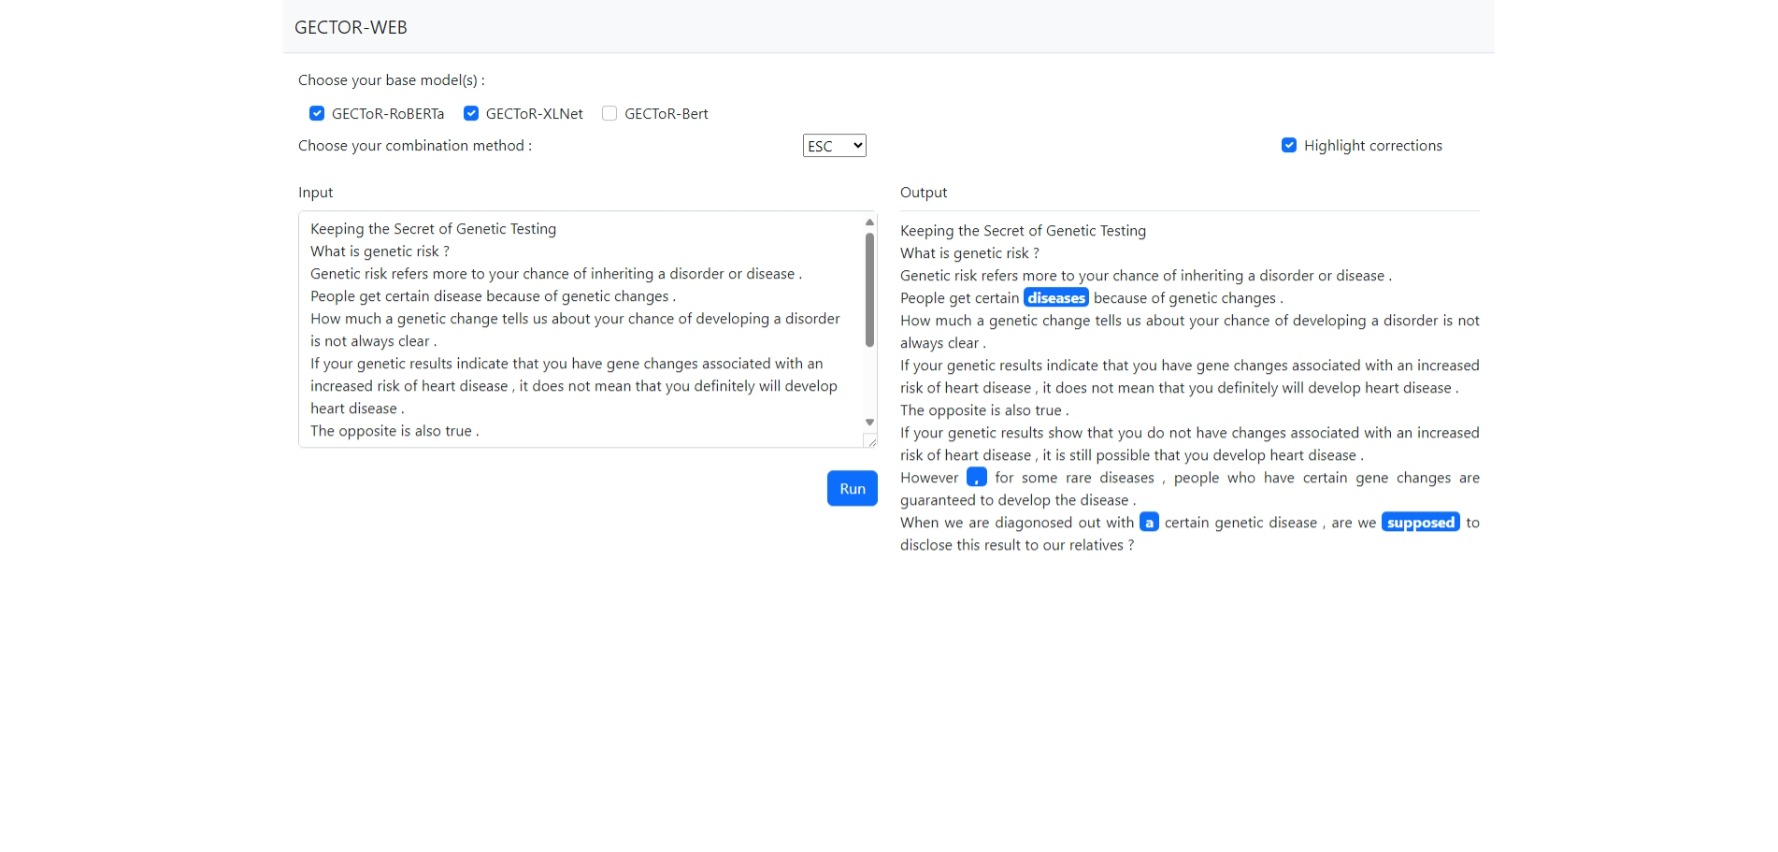
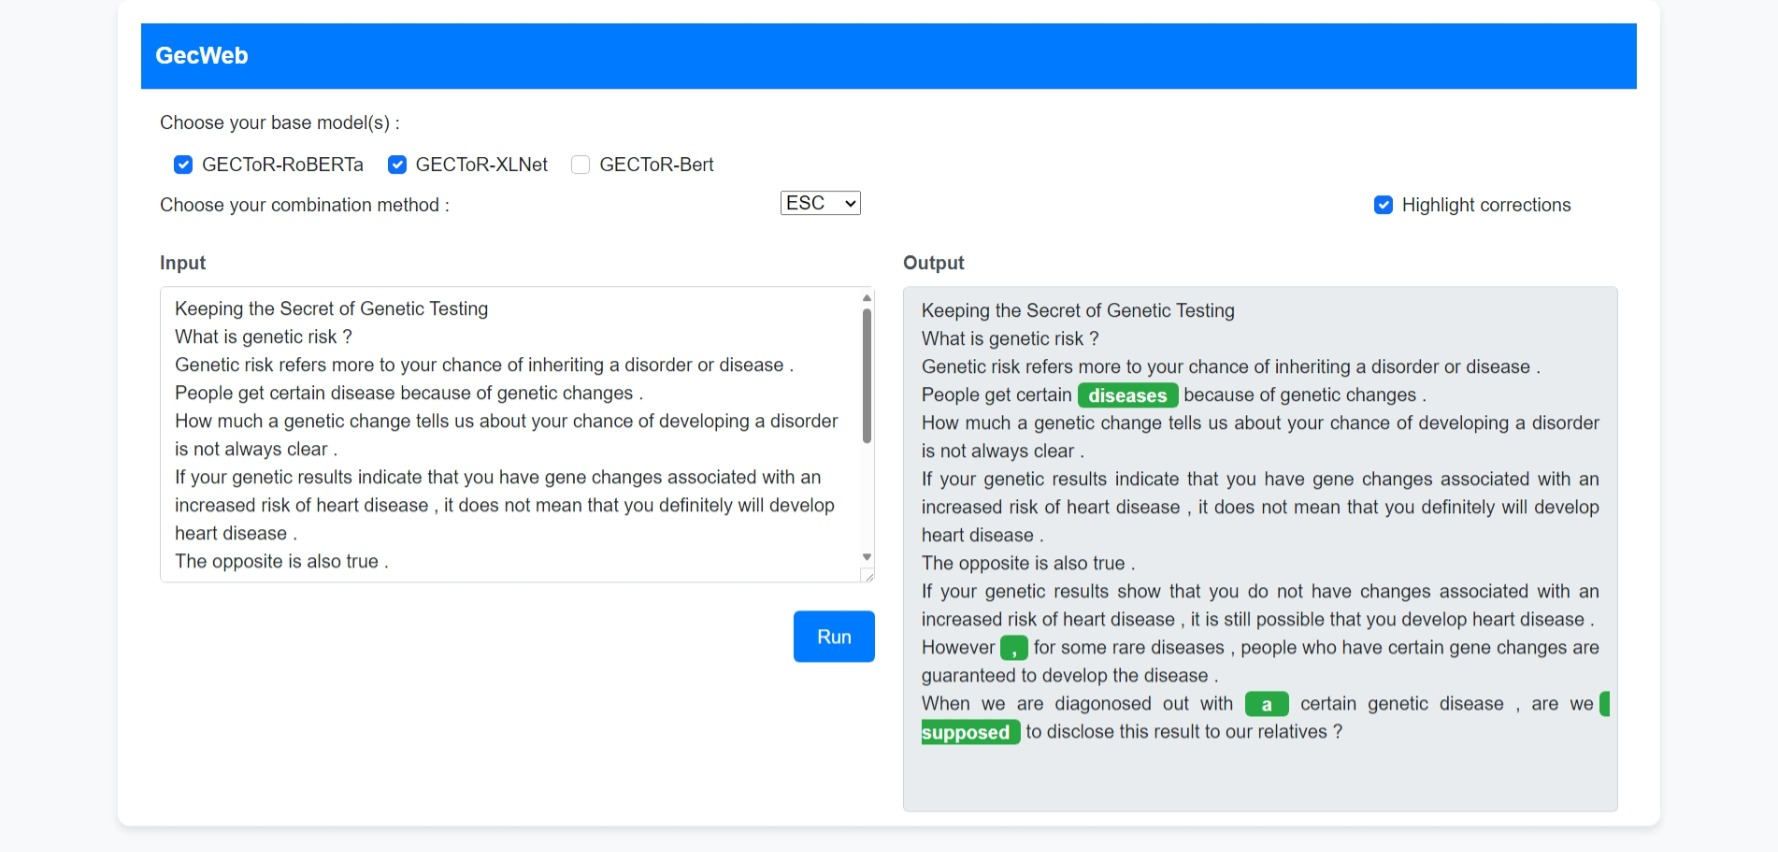
edit home page figure

diff --git a/chapters/4_design.tex b/chapters/4_design.tex
@@ -79,8 +79,8 @@ Buttons maintain a uniform appearance with rounded corners and consistent paddin
 The "Run" button, which triggers the grammatical error correction process, is prominently displayed in a contrasting color, making it easily identifiable.
 Feedback messages, including error notifications and success confirmations, appear at the top of the screen, ensuring they are immediately visible to users.
 
-The color scheme follows a clean and intuitive design, primarily using shades of blue and white.
-Corrections made to the text are highlighted in blue to enhance visibility, allowing users to easily identify the suggested changes.
+The color scheme follows a clean and intuitive design, primarily using shades of blue, green, and white.
+Corrections made to the text are highlighted in green to enhance visibility, allowing users to easily identify the suggested changes.
 This structured approach to design improves usability, ensuring that the interface remains simple, effective, and accessible to a wide range of users.
 
 \section{Application Building}
@@ -138,7 +138,7 @@ As mentioned earlier in Chapter 3, GecWeb includes two state-of-the-art system c
 \subsubsection{Output Mode}
 
 Users can choose to highlight the corrections by selecting the "Highlight corrections" box.
-If the user chooses to highlight the corrections, text spans in the output text that are different from the input text are highlighted in blue and a simple explanation of each correction can be displayed by clicking a highlighted text span.
+If the user chooses to highlight the corrections, text spans in the output text that are different from the input text are highlighted in green and a simple explanation of each correction can be displayed by clicking a highlighted text span.
 The appearance of highlighted corrections can be seen in Figure~\ref{fig:highlight}.
 Displaying corrections with simple explanations can help language learners to understand their mistakes better.
 I extracted the corrections with their edit types using ERRANT.
@@ -147,8 +147,7 @@ I extracted the corrections with their edit types using ERRANT.
   \begin{center}
     \includegraphics[width=\textwidth]{highlight}
   \end{center}
-  \caption{The interface with highlighted corrections, showing blue highlights for corrected text and explanations for each correction.}\label{fig:highlight}
-\end{figure}
+  \caption{The interface with highlighted corrections, showing green highlights for corrected text and explanations for each correction.}\label{fig:highlight} \end{figure}
 
 \subsubsection{Input Text Box}
 
